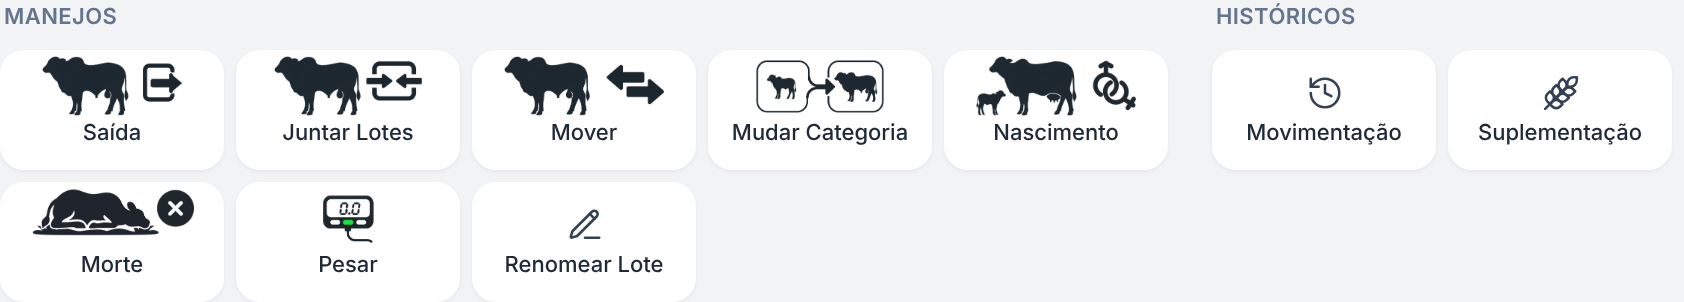
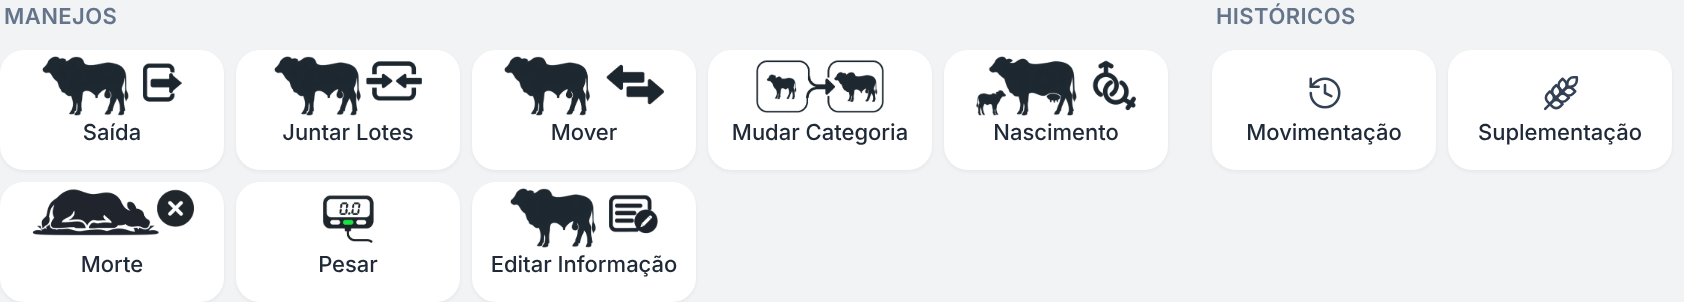
Manejos: Renomear Lote vira Editar Informação, com o ícone do proprietário (D-PROD-131)
Claude-Session: https://claude.ai/code/session_01UazgFfaVrfzGvoj5VQP7sQ

Changed region(s): [[0.2779, 0.6258, 0.4014, 0.9238]]

diff --git a/tests/smoke/iconesManejo.test.jsx b/tests/smoke/iconesManejo.test.jsx
@@ -1,16 +1,16 @@
 // @vitest-environment jsdom
-/** D-PROD-131 — "Saída" (antigo Abate), "Mover", "Pesar", "Nascimento", "Morte", "Juntar Lotes" e "Mudar Categoria" usam as imagens do proprietário. */
+/** D-PROD-131 — "Saída" (antigo Abate), "Mover", "Pesar", "Nascimento", "Morte", "Juntar Lotes", "Mudar Categoria" e "Editar Informação" (antigo Renomear Lote) usam as imagens do proprietário. */
 import React from "react";
 import { describe, it, expect, afterEach } from "vitest";
 import { render, screen, cleanup } from "@testing-library/react";
 import { existsSync, readFileSync } from "node:fs";
 import AcoesDoLote from "@/components/mapa/AcoesDoLote";
-import { IconeJuntarLotes, IconeMorte, IconeMoverAnimais, IconeMudarCategoria, IconeNascimento, IconePesar, IconeSaida } from "@/components/mapa/IconesManejo";
+import { IconeEditarInformacao, IconeJuntarLotes, IconeMorte, IconeMoverAnimais, IconeMudarCategoria, IconeNascimento, IconePesar, IconeSaida } from "@/components/mapa/IconesManejo";
 
 afterEach(cleanup);
 
 describe("Ícones em imagem dos manejos (D-PROD-131)", () => {
-  it("imagens existem e o Detalhes do Lote usa nos quadros Saída, Mover, Pesar, Nascimento, Morte, Juntar Lotes e Mudar Categoria", () => {
+  it("imagens existem e o Detalhes do Lote usa nos quadros Saída, Mover, Pesar, Nascimento, Morte, Juntar Lotes, Mudar Categoria e Editar Informação", () => {
     expect(existsSync("public/icons/mover-animais.png")).toBe(true);
     expect(existsSync("public/icons/pesar.png")).toBe(true);
     expect(existsSync("public/icons/nascimento.png")).toBe(true);
@@ -18,6 +18,7 @@ describe("Ícones em imagem dos manejos (D-PROD-131)", () => {
     expect(existsSync("public/icons/morte.png")).toBe(true);
     expect(existsSync("public/icons/juntar-lotes.png")).toBe(true);
     expect(existsSync("public/icons/mudar-categoria.png")).toBe(true);
+    expect(existsSync("public/icons/editar-informacao.png")).toBe(true);
     const dl = readFileSync("src/components/mapa/DetalhesLote.jsx", "utf8");
     expect(dl).toMatch(/nome: 'Mover', Icone: IconeMoverAnimais/);
     expect(dl).toMatch(/nome: 'Pesar', Icone: IconePesar/);
@@ -27,7 +28,9 @@ describe("Ícones em imagem dos manejos (D-PROD-131)", () => {
     expect(dl).toMatch(/nome: 'Morte', Icone: IconeMorte/);
     expect(dl).toMatch(/nome: 'Juntar Lotes', Icone: IconeJuntarLotes/);
     expect(dl).toMatch(/nome: 'Mudar Categoria', Icone: IconeMudarCategoria/);
-    expect(dl).not.toMatch(/nome: 'Abate'|ArrowLeftRight|\bScale\b|\bBaby\b|\bBeef\b|HeartCrack|\bCombine\b|\bTags\b/);
+    expect(dl).toMatch(/nome: 'Editar Informação', Icone: IconeEditarInformacao, onClick: abrirRenomear/);
+    expect(dl).toMatch(/titulo="Editar Informação"/);
+    expect(dl).not.toMatch(/nome: 'Abate'|ArrowLeftRight|\bScale\b|\bBaby\b|\bBeef\b|HeartCrack|\bCombine\b|\bTags\b|PencilLine|nome: 'Renomear Lote'/);
   });
 
   it("aparecem no quadro, com o nome, sem descer a linha", () => {
@@ -40,6 +43,7 @@ describe("Ícones em imagem dos manejos (D-PROD-131)", () => {
         { nome: "Morte", Icone: IconeMorte, onClick: () => {} },
         { nome: "Juntar Lotes", Icone: IconeJuntarLotes, onClick: () => {} },
         { nome: "Mudar Categoria", Icone: IconeMudarCategoria, onClick: () => {} },
+        { nome: "Editar Informação", Icone: IconeEditarInformacao, onClick: () => {} },
       ] }]} />,
     );
     expect(screen.getByRole("button", { name: "Mover" }).querySelector("img")?.getAttribute("src")).toBe("/icons/mover-animais.png");
@@ -49,6 +53,7 @@ describe("Ícones em imagem dos manejos (D-PROD-131)", () => {
     expect(screen.getByRole("button", { name: "Morte" }).querySelector("img")?.getAttribute("src")).toBe("/icons/morte.png");
     expect(screen.getByRole("button", { name: "Juntar Lotes" }).querySelector("img")?.getAttribute("src")).toBe("/icons/juntar-lotes.png");
     expect(screen.getByRole("button", { name: "Mudar Categoria" }).querySelector("img")?.getAttribute("src")).toBe("/icons/mudar-categoria.png");
+    expect(screen.getByRole("button", { name: "Editar Informação" }).querySelector("img")?.getAttribute("src")).toBe("/icons/editar-informacao.png");
     const css = readFileSync("src/styles/lancamento-lote.css", "utf8");
     expect(css).toMatch(/\.mk-al__quadro \.mk-al__img \{[^}]*display: block;[^}]*height: 32px;/);
     expect(css).toMatch(/\.mk-al--embaixo \.mk-al__quadro \.mk-al__img \{[^}]*height: 30px;[^}]*margin: -9px 0 -2px;/);

diff --git a/src/components/mapa/DetalhesLote.jsx b/src/components/mapa/DetalhesLote.jsx
@@ -34,8 +34,8 @@ import LancField from "@/components/cadastro/base1/LancField";
 import ResumoSuplementacao from "../suplementacao/ResumoSuplementacao";
 import InformacoesArea from "./InformacoesArea";
 import { Progress } from "@/components/ui/progress";
-import { History, PencilLine, Wheat } from "lucide-react";
-import { IconeJuntarLotes, IconeMorte, IconeMoverAnimais, IconeMudarCategoria, IconeNascimento, IconePesar, IconeSaida } from "@/components/mapa/IconesManejo";
+import { History, Wheat } from "lucide-react";
+import { IconeEditarInformacao, IconeJuntarLotes, IconeMorte, IconeMoverAnimais, IconeMudarCategoria, IconeNascimento, IconePesar, IconeSaida } from "@/components/mapa/IconesManejo";
 import { corpoNascimento, corpoPesagem, corpoMudancaCategoria, corpoJuncao, corpoBaixa, previaJuncao, corpoTransferenciaLedger, ehPosicaoDoLedger } from "@/domain/lotes/manejoRebanho";
 import { enviarManejoRebanho, enviarJuncaoLotes, enviarBaixaRebanho, enviarTransferenciaLedger, mensagemDaTransferenciaLedger, mensagemDoErro, codigoDoErro, MENSAGENS_MANEJO_REBANHO } from "@/services/manejoRebanhoService";
 import { escopoDoUsuario } from "../lotes/ExcluirMovimentacao";
@@ -592,7 +592,7 @@ export default function DetalhesLote({ lotes, onClose, permissions = {} }) {
           permissions.registrar_nascimento !== false && { nome: 'Nascimento', Icone: IconeNascimento, onClick: () => abrirManejo(setShowNascimento) },
           permissions.registrar_morte !== false && { nome: 'Morte', Icone: IconeMorte, onClick: () => abrirManejo(setShowMorte) },
           permissions.pesar_lotes !== false && { nome: 'Pesar', Icone: IconePesar, onClick: () => abrirManejo(setShowPesagem) },
-          permissions.renomear_lotes !== false && { nome: 'Renomear Lote', Icone: PencilLine, onClick: abrirRenomear },
+          permissions.renomear_lotes !== false && { nome: 'Editar Informação', Icone: IconeEditarInformacao, onClick: abrirRenomear },
         ].filter(Boolean);
         const historicos = [
           permissions.visualizar_historico_movimentacoes_lote !== false && { nome: 'Movimentação', rotulo: 'Histórico de Movimentação', Icone: History, onClick: () => setShowHistorico(true) },
@@ -757,8 +757,8 @@ export default function DetalhesLote({ lotes, onClose, permissions = {} }) {
           )}
       </LancLoteDialogo>
 
-      {/* Dialog Renomear Lote */}
-      <LancLoteDialogo open={showRenomear} onOpenChange={setShowRenomear} titulo="Renomear Lote" lotes={loteParaRenomear ? [loteParaRenomear] : lotes}>
+      {/* Dialog Editar Informação (renomear o lote) */}
+      <LancLoteDialogo open={showRenomear} onOpenChange={setShowRenomear} titulo="Editar Informação" lotes={loteParaRenomear ? [loteParaRenomear] : lotes}>
           {!loteParaRenomear && lotes.length > 1 ?
             <div className="mk-ll">
               <p className="mk-ll__texto">Selecione o lote para renomear:</p>

diff --git a/tests/smoke/detalhesLoteQuadros.test.jsx b/tests/smoke/detalhesLoteQuadros.test.jsx
@@ -32,7 +32,7 @@ describe("Detalhes do Lote: Manejos e Históricos em quadros (D-PROD-119)", () =
   it("todos os manejos e históricos continuam, com as mesmas permissões", () => {
     for (const [perm, nome] of [
       ["mover_lotes", "Mover"], ["pesar_lotes", "Pesar"], ["registrar_nascimento", "Nascimento"], ["registrar_morte", "Morte"],
-      ["registrar_abate", "Saída"], ["mudar_categoria_lotes", "Mudar Categoria"], ["juntar_lotes", "Juntar Lotes"], ["renomear_lotes", "Renomear Lote"],
+      ["registrar_abate", "Saída"], ["mudar_categoria_lotes", "Mudar Categoria"], ["juntar_lotes", "Juntar Lotes"], ["renomear_lotes", "Editar Informação"],
       ["visualizar_historico_movimentacoes_lote", "Movimentação"], ["visualizar_historico_suplementacao_lote", "Suplementação"],
     ]) {
       expect(fonte, nome).toMatch(new RegExp(`permissions\\.${perm} !== false[^\\n]*nome: '${nome}'`));

diff --git a/tests/smoke/lancamentoLoteUi.test.jsx b/tests/smoke/lancamentoLoteUi.test.jsx
@@ -169,7 +169,7 @@ describe("LancLoteDialogo (D-PROD-115)", () => {
       expect(fonte, f).toMatch(/LancLoteRodape/);
     }
     const detalhes = readFileSync("src/components/mapa/DetalhesLote.jsx", "utf8");
-    for (const t of ["Registrar Morte", "Registrar Saída", "Registrar Nascimento", "Registrar Pesagem", "Mudança de Categoria", "Mover Lotes", "Juntar Lotes", "Renomear Lote"]) {
+    for (const t of ["Registrar Morte", "Registrar Saída", "Registrar Nascimento", "Registrar Pesagem", "Mudança de Categoria", "Mover Lotes", "Juntar Lotes", "Editar Informação"]) {
       expect(detalhes, t).toMatch(new RegExp(`<LancLoteDialogo(?:(?!</?LancLoteDialogo)[\\s\\S])*?titulo="${t}"`));
     }
   });

diff --git a/src/components/mapa/IconesManejo.jsx b/src/components/mapa/IconesManejo.jsx
@@ -35,3 +35,6 @@ export const IconeJuntarLotes = iconeImagem("/icons/juntar-lotes.png");
 
 /** Mudar Categoria: bezerro → boi, cada um num quadro, com a seta entre eles. */
 export const IconeMudarCategoria = iconeImagem("/icons/mudar-categoria.png");
+
+/** Editar Informação (antigo "Renomear Lote"): boi com a ficha e o lápis. */
+export const IconeEditarInformacao = iconeImagem("/icons/editar-informacao.png");

diff --git a/docs/engineering/DECISIONS.md b/docs/engineering/DECISIONS.md
@@ -5034,20 +5034,22 @@ Em cada cadeia: bloqueio antes do clique, exclusão do dependente, desbloqueio s
   - aproximando: média 97% e pior quadro 94%;
   - evidência: v19-05.
 
-## D-PROD-131 — Manejos "Saída" (antigo Abate), "Mover", "Pesar", "Nascimento", "Morte", "Juntar Lotes" e "Mudar Categoria": ícones do proprietário
+## D-PROD-131 — Manejos "Saída" (antigo Abate), "Mover", "Pesar", "Nascimento", "Morte", "Juntar Lotes", "Mudar Categoria" e "Editar Informação" (antigo Renomear Lote): ícones do proprietário
 
-- **Contexto:** o proprietário enviou imagens próprias para sete botões de manejo e pediu que "Abate" passe a se chamar "Saída":
+- **Contexto:** o proprietário enviou imagens próprias para os oito botões de manejo e pediu que "Abate" passe a se chamar "Saída" e "Renomear Lote" passe a se chamar "Editar Informação":
   - Saída: um boi com o ícone de saída. É a segunda versão; o arquivo enviado não chegou à sessão, então a imagem foi montada com o mesmo boi das outras imagens e o ícone de saída desenhado igual ao enviado;
   - Mover: um boi com setas de ida e volta (segunda versão; a primeira tinha porteiras);
   - Pesar: uma balança digital com o visor 0.0;
   - Nascimento: uma vaca com o bezerro e os símbolos de macho e fêmea (segunda versão, toda em cinza-escuro);
   - Morte: um animal deitado com um X;
   - Juntar Lotes: um boi com setas que se encontram;
-  - Mudar Categoria: um bezerro e um boi, cada um num quadro, com uma seta entre eles.
+  - Mudar Categoria: um bezerro e um boi, cada um num quadro, com uma seta entre eles;
+  - Editar Informação: um boi com uma ficha e um lápis.
 - **Decisão:**
-  - Os quadros "Saída", "Mover", "Pesar", "Nascimento", "Morte", "Juntar Lotes" e "Mudar Categoria" dos Manejos (Detalhes do Lote) usam essas imagens no lugar dos ícones `Beef`, `ArrowLeftRight`, `Scale`, `Baby`, `HeartCrack`, `Combine` e `Tags`.
+  - Os quadros "Saída", "Mover", "Pesar", "Nascimento", "Morte", "Juntar Lotes", "Mudar Categoria" e "Editar Informação" dos Manejos (Detalhes do Lote) usam essas imagens no lugar dos ícones `Beef`, `ArrowLeftRight`, `Scale`, `Baby`, `HeartCrack`, `Combine`, `Tags` e `PencilLine`.
   - O quadro "Abate" passa a se chamar **"Saída"**, e a janela passa a ser "Registrar Saída". O registro continua sendo o mesmo manejo de abate: tipo `Abate`, `FormularioAbate` e a permissão `registrar_abate`.
-  - As imagens foram recortadas, com o fundo branco tirado, e salvas em `public/icons/` (`saida.png`, `mover-animais.png`, `pesar.png`, `nascimento.png`, `morte.png`, `juntar-lotes.png`, `mudar-categoria.png`). Como as imagens mais largas têm cerca de 2,7:1, a largura máxima é de 88 px, o que ainda cabe no quadro. Elas são exibidas por `IconesManejo`.
+  - O quadro "Renomear Lote" passa a se chamar **"Editar Informação"**, e a janela também. Ele continua renomeando o lote, com a mesma permissão (`renomear_lotes`). O registro no histórico segue com o motivo "Renomear Lote".
+  - As imagens foram recortadas, com o fundo branco tirado, e salvas em `public/icons/` (`saida.png`, `mover-animais.png`, `pesar.png`, `nascimento.png`, `morte.png`, `juntar-lotes.png`, `mudar-categoria.png`, `editar-informacao.png`). Como as imagens mais largas têm cerca de 2,7:1, a largura máxima é de 88 px, o que ainda cabe no quadro. Elas são exibidas por `IconesManejo`.
   - A pedido do proprietário, ficam **maiores** que os outros ícones: 32 px, 36 px na folha do celular e 30 px nos quadros menores do computador.
   - Uma margem negativa faz a imagem crescer para cima, sem aumentar o quadro nem descer o nome.
 - **Consequência:**

diff --git a/docs/engineering/UX-MOBILE-V2-REPORT.md b/docs/engineering/UX-MOBILE-V2-REPORT.md
@@ -329,11 +329,11 @@ Duas tentativas anteriores nesta rodada (ícone fixo com a ponta no ponto e íco
 
 O novo visual dos botões do Mapa Geral (D-PROD-131: painel Visualização, sem o ✕ e sem o cabeçalho no celular) foi **desfeito a pedido do proprietário** ("remova por enquanto"). O mapa voltou ao estado do D-PROD-130. O número D-PROD-131 fica livre.
 
-## V21 — Ícones do "Saída", do "Mover", do "Pesar", do "Nascimento", da "Morte", do "Juntar Lotes" e do "Mudar Categoria" (D-PROD-131)
+## V21 — Ícones do "Saída", do "Mover", do "Pesar", do "Nascimento", da "Morte", do "Juntar Lotes", do "Mudar Categoria" e do "Editar Informação" (D-PROD-131)
 
 | Pedido | Feito | Evidência |
 |---|---|---|
-| Usar as imagens enviadas no Saída (boi com seta, antigo Abate), no Mover (boi com setas), no Pesar (balança), no Nascimento (vaca com bezerro) na Morte (animal deitado com X) no Juntar Lotes (boi com setas que se encontram) e no Mudar Categoria (bezerro para boi), e deixá-las maiores; trocar o nome "Abate" por "Saída" | Os quadros mostram as imagens maiores, sem aumentar o quadro e com o nome alinhado | v21-01 (computador), v21-02 (celular) |
+| Usar as imagens enviadas no Saída (boi com seta, antigo Abate), no Mover (boi com setas), no Pesar (balança), no Nascimento (vaca com bezerro) na Morte (animal deitado com X) no Juntar Lotes (boi com setas que se encontram) no Mudar Categoria (bezerro para boi) e no Editar Informação (boi com ficha e lápis), e deixá-las maiores; trocar os nomes "Abate" por "Saída" e "Renomear Lote" por "Editar Informação" | Os quadros mostram as imagens maiores, sem aumentar o quadro e com o nome alinhado | v21-01 (computador), v21-02 (celular) |
 
 **Não testado em aparelho.**
 
